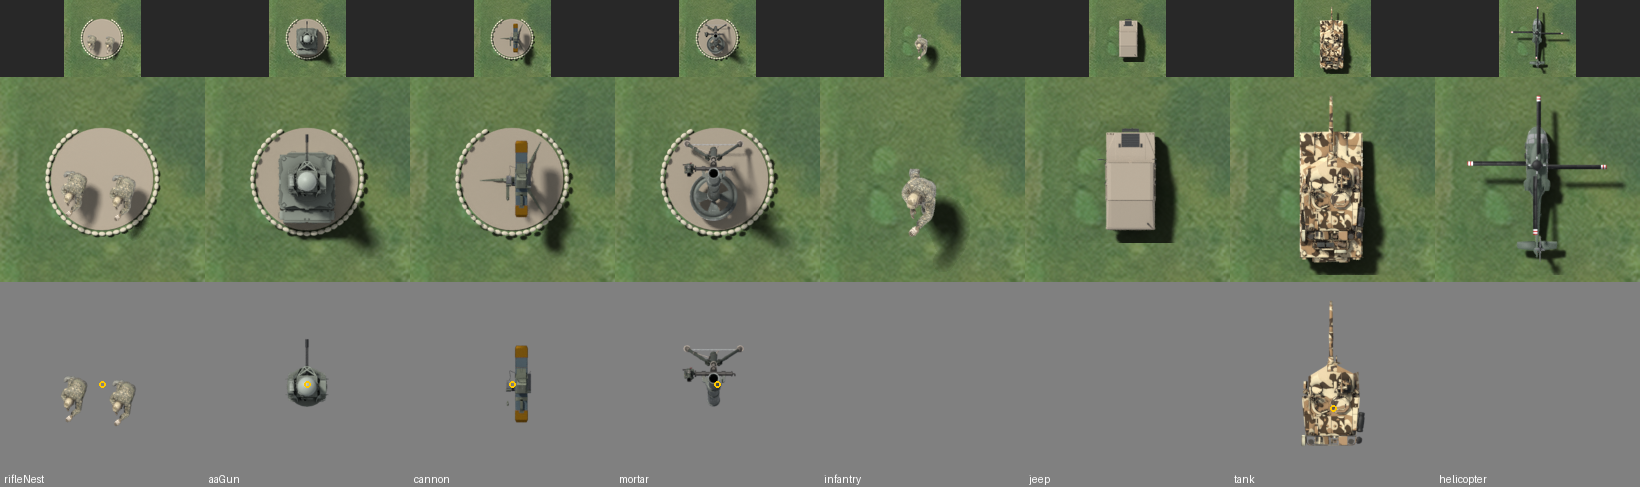
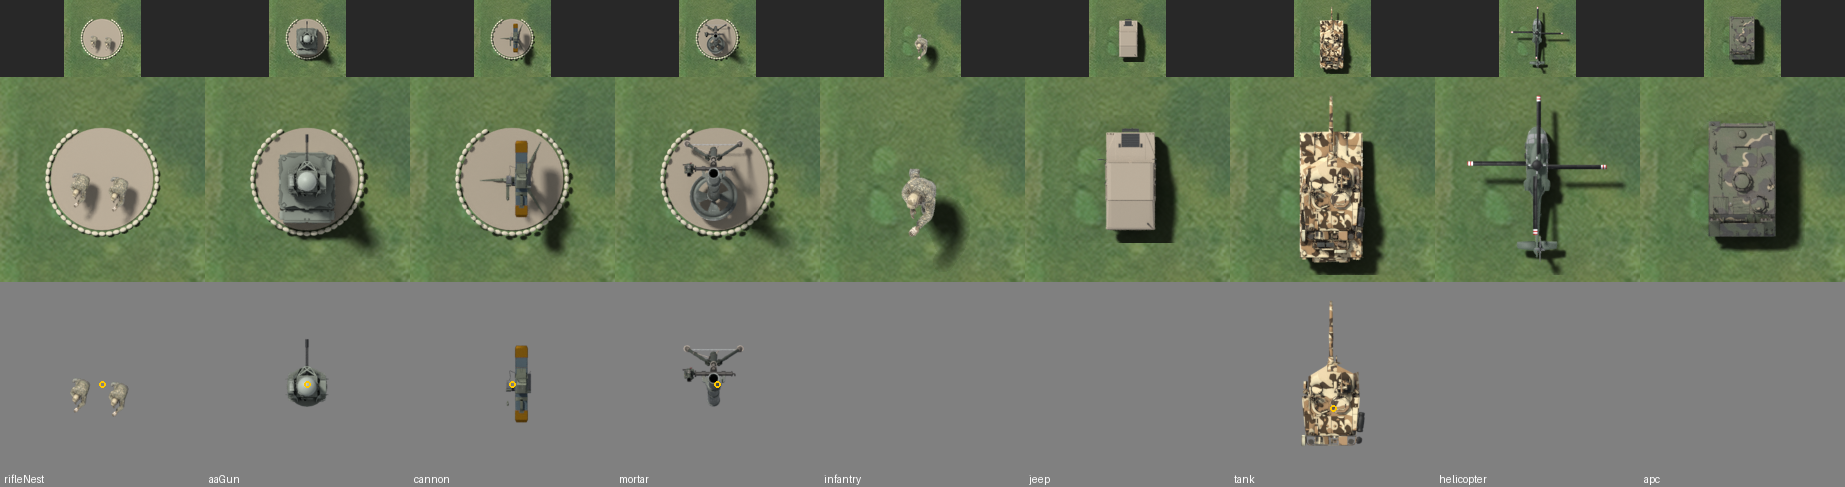
feat: US APC render (M113) with turntable (#532)
Closes #478

Part 1 of 4 of #360 (APC renders). The APC is not in play yet (#76), so nothing changes in the game. The render shows up only in the data, the Field manual's model list and the faction sheet.

## Summary

```diff
 scripts/render-sprite.json
+  us-apc   kind apc · "M113" by arc4de (Sketchfab 7fe132c0…, CC-BY 4.0) · 0.9 tile long, 1.25-tile canvas, no turret
 assets/render-us-apc/
+  us-apc.png  us-apc.json  us-apc-turntable.{webp,json} (24 × 384 px, 224 KB)  License.txt
 assets/manifest.json, CREDITS.md   + render-us-apc pack (turntable named in the attribution)
 docs/adr/0009                       + APC row in "What each kind depicts" and an "Updated 2026-11-11" note
 docs/assets.md                      + render-us-apc/ row
 scripts/faction-sheet.py            + NEW_KINDS = ["apc"]: a column only when the Faction has the render
 tests/render-pivot.test.ts          a Faction set = SPRITES kinds + the new kinds rendered for it (apc: US)
```

**Model:** a camo-painted M113 (US woodland). It is downloadable and CC-BY, and the page names no game and has no "ripped" tag; I checked it on the Sketchfab page on 2026-11-11. It shows no M2 on the cupola, so the APC reads as a troop carrier as written.

## Evidence

Faction sheet, US (`scripts/faction-sheet.py us`):

**Before:**
![US faction sheet before](https://github.com/itay28/Military-TD/blob/pr-assets/532/faction-us-before.png?raw=true)

**After** (the APC is the new last column):
[…]

diff --git a/tests/render-pivot.test.ts b/tests/render-pivot.test.ts
@@ -3,7 +3,7 @@ import { PNG } from 'pngjs';
 import { describe, expect, it } from 'vitest';
 import { SPRITES } from '../src/data/sprites';
 import { NOT_IN_PLAY, type TowerKind } from '../src/data/towers';
-import { FACTIONS } from '../src/sim/factions';
+import { FACTIONS, type Faction } from '../src/sim/factions';
 import { RENDER_CONFIG, buildRenderMeta, renderMeta, renderMetaPath, turretPivot } from '../scripts/render-pivot';
 
 /** A transparent `w` × `h` image with the given rectangles (x, y, w, h) opaque. */
@@ -98,16 +98,61 @@ describe('the committed render data', () => {
   });
 });
 
+/**
+ * v0.8.0 kinds whose renders come before the kind is in play (#360), with the Factions rendered so far. They aren't
+ * a `SpriteKind` until their gameplay issue lands (the APC: #76). Parts 2–4 add Russia, China and the Insurgents.
+ */
+const NEW_KINDS: Readonly<Record<string, readonly Faction[]>> = { apc: ['us'] };
+
 describe('the complete Faction sets (ADR-0009, point 5)', () => {
   // A kind not in play yet (the Sniper, renders in #358) has none until its rollout.
-  const kinds = Object.keys(SPRITES)
-    .filter((kind) => !NOT_IN_PLAY.has(kind as TowerKind))
-    .sort();
+  const inPlay = Object.keys(SPRITES).filter((kind) => !NOT_IN_PLAY.has(kind as TowerKind));
   // Every Faction: US (#314), Russia (#315), China (#316), Insurgents (#317).
   for (const faction of FACTIONS) {
     it(`has one render per kind for ${faction}`, () => {
+      const kinds = [...inPlay, ...Object.keys(NEW_KINDS).filter((k) => NEW_KINDS[k]!.includes(faction))].sort();
       const models = RENDER_CONFIG.models.filter((m) => m.faction === faction);
       expect(models.map((m) => m.kind).sort()).toEqual(kinds);
     });
   }
+
+  it('keeps the new kinds out of SPRITES until they are in play', () => {
+    for (const kind of Object.keys(NEW_KINDS)) expect(kind in SPRITES, kind).toBe(false);
+  });
+});
+
+describe('the US APC render (#478)', () => {
+  const model = RENDER_CONFIG.models.find((m) => m.id === 'us-apc')!;
+  const png = PNG.sync.read(readFileSync('assets/render-us-apc/us-apc.png'));
+
+  it('is the APC kind for the US, a single image with no turret', () => {
+    expect(model).toMatchObject({ kind: 'apc', faction: 'us' });
+    expect(model.turret).toBeUndefined();
+    expect(buildRenderMeta().find((m) => m.json.id === 'us-apc')!.json.pivot).toBeUndefined();
+  });
+
+  it('fills its canvas: canvasTiles × pxPerTile, with the shadow inside the edges', () => {
+    expect(png.width).toBe(Math.round(model.canvasTiles * RENDER_CONFIG.pxPerTile));
+    expect(png.height).toBe(png.width);
+    const alpha = (x: number, y: number): number => png.data[(y * png.width + x) * 4 + 3]!;
+    for (let i = 0; i < png.width; i++) {
+      expect(alpha(i, 0)).toBe(0);
+      expect(alpha(i, png.height - 1)).toBe(0);
+      expect(alpha(0, i)).toBe(0);
+      expect(alpha(png.width - 1, i)).toBe(0);
+    }
+  });
+
+  it('is about 0.9 tile long (ADR-0009, point 2), facing north: longer than wide', () => {
+    let [minX, minY, maxX, maxY] = [Infinity, Infinity, -1, -1];
+    for (let y = 0; y < png.height; y++)
+      for (let x = 0; x < png.width; x++) {
+        if (png.data[(y * png.width + x) * 4 + 3]! < 250) continue; // the vehicle, not its softer shadow
+        [minX, minY, maxX, maxY] = [Math.min(minX, x), Math.min(minY, y), Math.max(maxX, x), Math.max(maxY, y)];
+      }
+    const length = (maxY - minY + 1) / RENDER_CONFIG.pxPerTile;
+    expect(length).toBeGreaterThan(0.82);
+    expect(length).toBeLessThan(0.98);
+    expect(maxX - minX + 1).toBeLessThan(maxY - minY + 1);
+  });
 });

diff --git a/src/data/turntables.test.ts b/src/data/turntables.test.ts
@@ -31,7 +31,7 @@ function webpSize(path: string): { width: number; height: number } {
 
 describe('TURNTABLES', () => {
   it('has a turntable for every model of the factions done so far, with its kind and faction', () => {
-    expect(done.length).toBe(16);
+    expect(done.length).toBe(17); // eight kinds in play per Faction done, plus the US APC (#478)
     for (const m of done) {
       expect(TURNTABLES[m.id]!.kind, m.id).toBe(m.kind);
       expect(TURNTABLES[m.id]!.faction, m.id).toBe(m.faction);

diff --git a/src/data/renders.test.ts b/src/data/renders.test.ts
@@ -45,6 +45,11 @@ describe('RENDERS', () => {
     expect(SPRITES.tank).not.toBeNull();
   });
 
+  it('leaves the APC out until it is in play (#76): its US render (#478) is only in the Field manual for now', () => {
+    expect('apc' in RENDERS).toBe(false);
+    expect(Object.keys(SPRITES)).not.toContain('apc');
+  });
+
   it('renders face north', () => {
     expect(RENDER_FACING).toBeCloseTo(-Math.PI / 2);
   });

diff --git a/scripts/faction-sheet.py b/scripts/faction-sheet.py
@@ -20,6 +20,8 @@ GAME_TILE = 48
 NAIP_GRASS_BOX = (0, 192, 128, 320)  # a plain-grass crop of the NAIP patch, in its own pixels (sprite-compare.py)
 CELL = 1.6  # tiles per cell, enough for the largest canvas (1.5)
 KINDS = ["rifleNest", "aaGun", "cannon", "mortar", "infantry", "jeep", "tank", "helicopter"]
+# v0.8.0 kinds rendered one Faction at a time ahead of their gameplay (#360): on the sheet once the Faction has one.
+NEW_KINDS = ["apc"]
 
 
 def grass(px: int) -> Image.Image:
@@ -44,11 +46,12 @@ def main() -> None:
     missing = [k for k in KINDS if k not in models]
     if missing:
         raise SystemExit(f"{args.faction}: no model for {', '.join(missing)}")
+    kinds = KINDS + [k for k in NEW_KINDS if k in models]
     small, big = round(CELL * GAME_TILE), round(CELL * RENDER_TILE)
-    width = len(KINDS) * big
+    width = len(kinds) * big
     sheet = Image.new("RGBA", (width, small + 2 * big), (40, 40, 40, 255))
     draw = ImageDraw.Draw(sheet)
-    for i, kind in enumerate(KINDS):
+    for i, kind in enumerate(kinds):
         m = models[kind]
         folder = args.assets / f"render-{m['id']}"
         whole = Image.open(folder / f"{m['id']}.png").convert("RGBA")

diff --git a/docs/adr/0009-satellite-milsim-art-and-factions.md b/docs/adr/0009-satellite-milsim-art-and-factions.md
@@ -1,6 +1,6 @@
 # 9. Satellite-style milsim art and factions per map
 
-Date: 2026-10-27 · Status: Accepted · Updated 2026-11-02: the maintainer approved the render spike's look (#286)
+Date: 2026-10-27 · Status: Accepted · Updated 2026-11-02: the maintainer approved the render spike's look (#286) · Updated 2026-11-11: an APC row in "What each kind depicts" (#478, v0.8.0)
 
 ## Context
 
@@ -36,6 +36,7 @@ The maintainer also wants each map to pit two sides against each other, picked f
 | **Jeep** (unarmored, fast) | M1097 soft-top Humvee | UAZ-469 | BJ2022 Brave Warrior | Toyota Hilux technical with a DShK |
 | **Tank** | M1A2 SEPv3 Abrams | T-72B3 | Type 99A | T-55 (captured) |
 | **Helicopter** (light armor) | UH-60 Black Hawk | Mi-8AMTSh | Z-20 | Mi-8 (captured) |
+| **APC** (armored troop carrier) | M113 (or Stryker ICV, unarmed variant) | BTR-82A | ZBL-08 / ZSL-92 | BTR-60 (captured) |
 
 Picks match the stats: the Jeep has no armor (so no armored Humvee or Tigr), the Helicopter has light armor (a transport, not an Apache or Hind), and the AA Gun is a fast-firing gun that also hits ground targets.
 

diff --git a/docs/assets.md b/docs/assets.md
@@ -219,6 +219,7 @@ Don't use plain `python3` (3.13 in the cloud image, where pip offers only `bpy` 
 | `render-us-jeep/` | "Low Poly Humvee FREE" by madtrollstudio, CC-BY-4.0 | `scripts/render-sprite.py` |
 | `render-us-tank/` | "M1A2 Abrams Crows" by MirzaArrafiERV_45, CC-BY-4.0 | `scripts/render-sprite.py` |
 | `render-us-helicopter/` | "Sikorsky UH-60 Black Hawk" by helijah, CC-BY-4.0 | `scripts/render-sprite.py` |
+| `render-us-apc/` | "M113" by arc4de, CC-BY-4.0 (the APC, #478: rendered ahead of the kind being in play, #76) | `scripts/render-sprite.py` |
 | `render-russia-rifle-nest/` | "Tactical Soldier (game ready) low poly" by MissingTray1151, CC-BY-4.0 | `scripts/render-sprite.py` |
 | `render-russia-aa-gun/` | "ZU - 23, зенитная установка, ЗУ-23, зенитка" by LuckySkink9661, CC-BY-4.0 | `scripts/render-sprite.py` |
 | `render-russia-cannon/` | "ZiS-2 57mm anti-tank gun" by sergey.s.filin, CC-BY-4.0 | `scripts/render-sprite.py` |

diff --git a/CREDITS.md b/CREDITS.md
@@ -128,6 +128,15 @@ Third-party assets in this game. Generated from `assets/manifest.json` by `npm r
 - Downloaded: 2026-11-02
 - Files: `assets/render-us-jeep/**`
 
+## M113 (top-down render and turntable)
+
+- Author: arc4de
+- Source: <https://sketchfab.com/3d-models/7fe132c071584049b51d3569726021a0>
+- License: CC-BY-4.0
+- Attribution: "M113" by arc4de (sketchfab.com), CC-BY 4.0, rendered top-down, plus a turntable of the whole model (24 views from 30 degrees up) for the Field manual
+- Downloaded: 2026-11-11
+- Files: `assets/render-us-apc/**`
+
 ## M1A2 Abrams Crows (top-down render and turntable)
 
 - Author: MirzaArrafiERV_45
